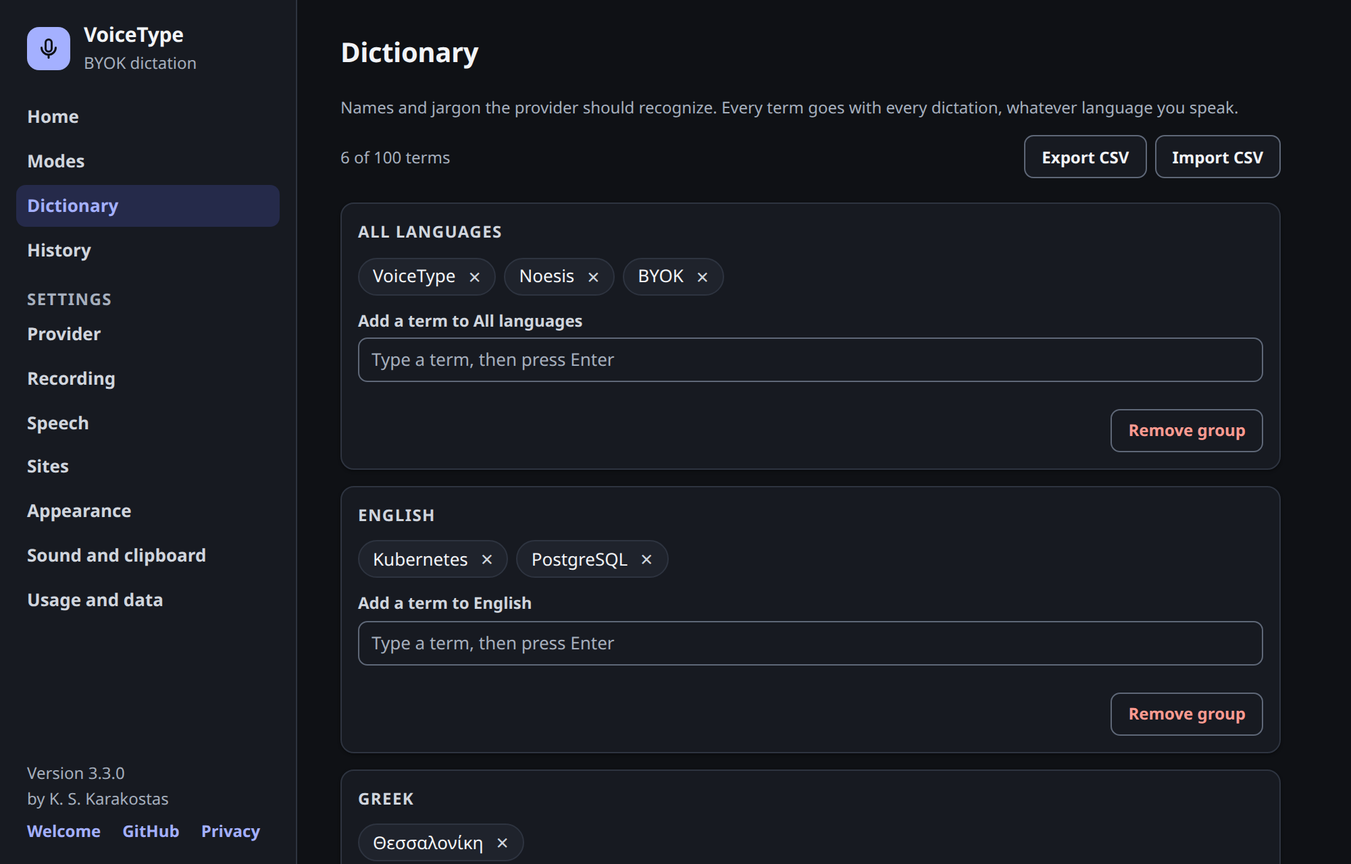
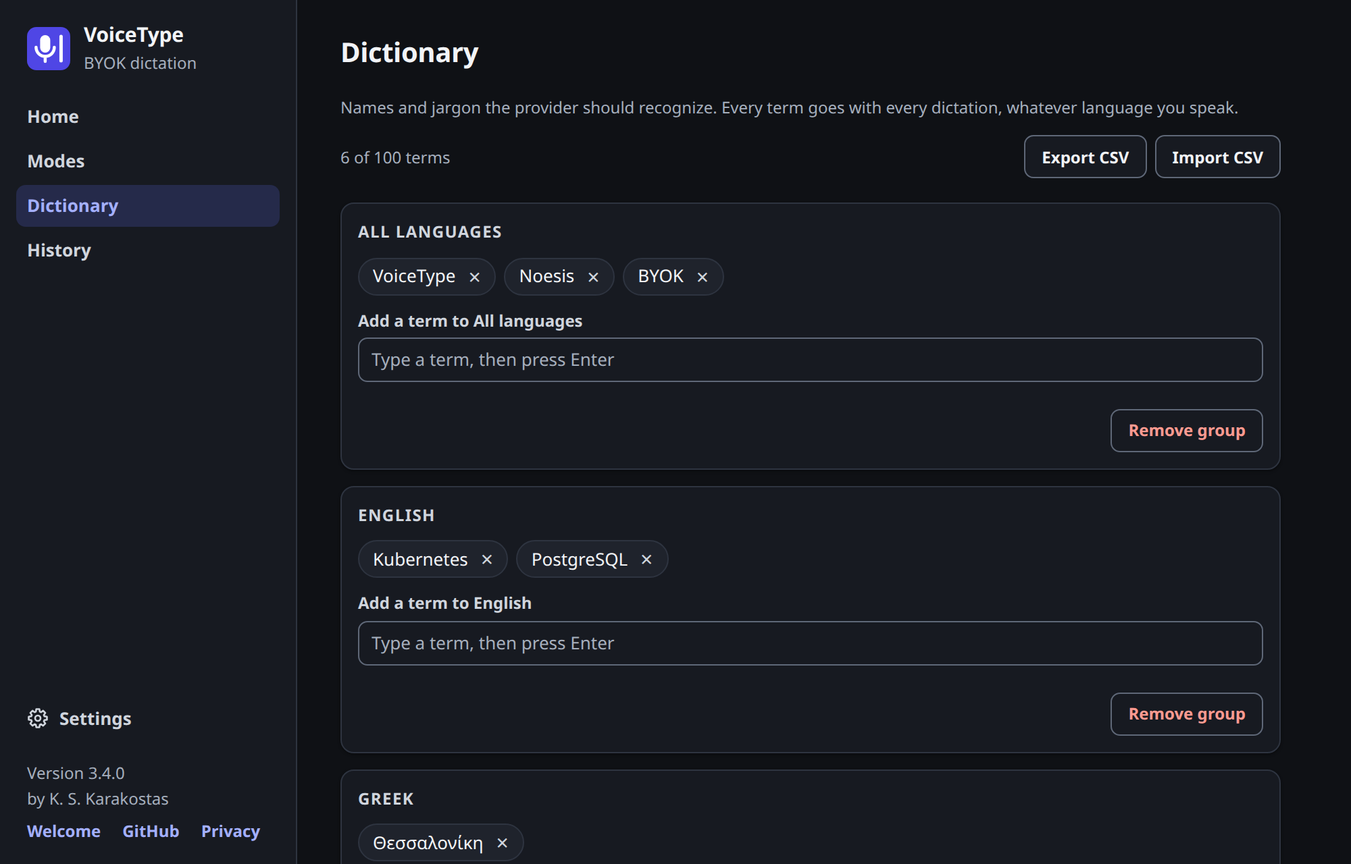
Release 3.4.0

diff --git a/test/screenshots/readme.spec.js b/test/screenshots/readme.spec.js
@@ -112,7 +112,8 @@ for (const colorScheme of ['light', 'dark']) {
       await page.reload();
 
       const popup = await context.newPage();
-      await popup.setViewportSize({ width: 320, height: 560 });
+      // Shorter than the panel, so the full-page shot ends where the panel does.
+      await popup.setViewportSize({ width: 320, height: 300 });
       await popup.goto(`chrome-extension://${extensionId}/popup.html`);
       // From behind the demo page, as the quick panel reads the active tab.
       await page.bringToFront();
@@ -130,7 +131,9 @@ for (const colorScheme of ['light', 'dark']) {
         // A route change focuses the heading, and its ring would be in the shot.
         await settings.evaluate(() => document.activeElement?.blur());
         await settings.waitForTimeout(500);
-        await settings.screenshot({ path: `${dir}/${name}.png` });
+        // A part is one card of a longer page, so its shot is that card and nothing of its neighbours.
+        const shot = route.startsWith('settings/') ? settings.locator(`section[data-part="${route}"]`) : settings;
+        await shot.screenshot({ path: `${dir}/${name}.png` });
       }
     } finally {
       await close();

diff --git a/test/unit/manifest.test.js b/test/unit/manifest.test.js
@@ -75,7 +75,7 @@ describe('content script', () => {
   });
 });
 
-describe('release 3.3.0', () => {
+describe('release 3.4.0', () => {
   // Reads files itself so this block works whatever the imports at the top of the file are.
   async function readRoot(name) {
     const fs = await import('node:fs');
@@ -87,7 +87,7 @@ describe('release 3.3.0', () => {
     const { version } = JSON.parse(await readRoot('manifest.json'));
     const pkg = JSON.parse(await readRoot('package.json'));
     const lock = JSON.parse(await readRoot('package-lock.json'));
-    expect(version).toBe('3.3.0');
+    expect(version).toBe('3.4.0');
     expect(pkg.version).toBe(version);
     expect(lock.version).toBe(version);
     expect(lock.packages[''].version).toBe(version);

diff --git a/docs/superpowers/plans/2026-11-06-v3.4-smoke.md b/docs/superpowers/plans/2026-11-06-v3.4-smoke.md
@@ -6,6 +6,8 @@ The Run column says who has it: **H** a harness ran it (result in the row), **M*
 
 Order (Task 6 of `docs/superpowers/plans/2026-11-06-v3.4.md`): Atlas hands you the M rows and stops until each has a result, sections in order. There is no gate section; the spec names none.
 
+On 2026-11-06 you asked Atlas to run these rows, or else to go on to Task 6. Atlas ran what a harness can and went on: a Result starting "Stand-in" is Atlas's and not your verdict, and those rows stay yours to check.
+
 Build, then reload VoiceType on `chrome://extensions` and reload any open page:
 
 ```bash
@@ -24,10 +26,10 @@ node test/fixtures/serve.mjs
 
 | # | Run | How | Expected | Result |
 |---|-----|-----|----------|--------|
-| 1.1 | M | Chrome with a light toolbar. Look at the pinned VoiceType icon among the other icons. Note your display scale (100%, 125%, 200%). | An indigo rounded square with a white microphone and a white text cursor. You tell it apart from its neighbours at a glance. | |
-| 1.2 | M | The same on a dark toolbar. | The same. The tile stands out from the toolbar; no halo at its corners. | |
-| 1.3 | M | The 16 px mark judged by eye, on either toolbar. It has no microphone stand: it is a capsule and a bar. | It reads as a microphone and a text cursor, not only as a pill and a line. Yours to judge. If it is weak, say so: this size leaves the stand out, so the capsule could be made taller. | |
-| 1.4 | M | In a tab. Press Open settings in the popup and look at that tab. Then open `chrome://extensions` and look at VoiceType's card. | The tab shows the extension's icon today (you reported it, 2026-11-06): the new mark there, both shapes readable and the drawing centred in its tile, is a pass; a generic icon is a fail. The card shows the new mark too. | |
+| 1.1 | M | Chrome with a light toolbar. Look at the pinned VoiceType icon among the other icons. Note your display scale (100%, 125%, 200%). | An indigo rounded square with a white microphone and a white text cursor. You tell it apart from its neighbours at a glance.  Stand-in by Atlas, not your verdict: `icons/icon16.png` and `icon32.png` laid on Chrome's light toolbar colour and viewed enlarged: the tile stands out. A real toolbar was not seen: headless Chromium draws none. |
+| 1.2 | M | The same on a dark toolbar. | The same. The tile stands out from the toolbar; no halo at its corners.  Stand-in by Atlas, not your verdict: the same on two dark toolbar colours, no halo at the corners. A real toolbar was not seen. |
+| 1.3 | M | The 16 px mark judged by eye, on either toolbar. It has no microphone stand: it is a capsule and a bar. | It reads as a microphone and a text cursor, not only as a pill and a line. Yours to judge. If it is weak, say so: this size leaves the stand out, so the capsule could be made taller.  Stand-in by Atlas, not your verdict: enlarged, the 16 px mark reads as a capsule and a bar, not clearly a microphone; the 32 px mark, which a 200% display uses, reads well. Open: yours to judge. |
+| 1.4 | M | In a tab. Press Open settings in the popup and look at that tab. Then open `chrome://extensions` and look at VoiceType's card. | The tab shows the extension's icon today (you reported it, 2026-11-06): the new mark there, both shapes readable and the drawing centred in its tile, is a pass; a generic icon is a fail. The card shows the new mark too.  Stand-in by Atlas, not your verdict: `chrome://extensions` shows the new mark on VoiceType's card, with Chrome's own orange badge for an unpacked extension on its corner. The tab icon was not seen. |
 | 1.5 | H | `manifest.json` lists 16, 32, 48 and 128 in `icons` and in `action.default_icon`; each file is a PNG of that exact size; `logo.png` is a PNG of 360 by 360. | All of it. | pass, the `icons` group of `manifest.test.js` (7 tests; 8 with row 1.6), `3232406` |
 | 1.6 | H | `build.mjs` copies every icon path the manifest names. `npm run build` leaves four PNGs in `dist/icons/`. | All four copied. | pass, `manifest.test.js`, `b87d6eb`; shown failing with the `icons/icon32.png` line removed from `build.mjs`, then restored |
 | 1.7 | H | The popup's and the sidebar's `.brand-mark` hold the same shapes as `icons/icon.svg`, the white parts in `translate(2.4 0)`. | Equal after whitespace; a missing copy fails. | pass, `icon-markup.test.js`, 5 tests, `b87d6eb`; shown failing with `translate(2.0 0)` in `options.html`, then restored |
@@ -40,21 +42,21 @@ Open the settings from the popup (Open settings): it lands on Home. The sidebar 
 
 | # | Run | How | Expected | Result |
 |---|-----|-----|----------|--------|
-| 2.1 | M | The page by feel. Press Settings with the mouse, then widen and narrow the window. | The sidebar names no part. The address is `#settings`, Settings is marked, and no ring shows on the page heading (measured in Chromium: the focus is on it, `:focus-visible` false). One column below a window about 1160 px wide, two up to about 1600, three above (measured 1158 and 1602 with no scrollbar; a visible scrollbar adds its width). On a 1920 px wide window the cards end about 870 px down, so the page needs no scroll when the page area is taller than that. The sidebar's mark is the new icon. Your verdict on the feel. | |
-| 2.2 | M | Scroll to the bottom of the page, then press Settings. | The page goes back to its top. The address stays `#settings`. | |
-| 2.3 | M | In the address bar change the end to `#settings/sites` and press Enter, then reload the tab (F5). | The page opens with the Sites heading in view. Nothing has the focus, so no ring (measured in Chromium: the focus is on the page body). | |
-| 2.4 | M | Keyboard. Tab to Settings in the sidebar and press Enter, then Tab on through the page. | A ring on the Settings heading after Enter (measured in Chromium: solid 2 px). Then the page's order: down the first column, then the second. In Recording: Minimum length, Maximum length, Silence auto-stop, Hotkey, Edit hotkey. Every control shows a focus ring. | |
-| 2.5 | M | Add API key. In the popup choose the provider you have no key for: the header changes to Add API key. Press it. Keep a settings tab open and sit on Home first: a press while it is at `#settings/provider` changes nothing (V69's accepted shortcut), and with no settings tab open the press opens a fresh one, which moves no focus (row 2.3). Then set the provider back (popup, or Settings, Provider). n/a if you have a key for both. | The open settings tab is used, with no second tab, and lands on Provider with its heading focused and in view. | |
-| 2.6 | M | Welcome's link. In the sidebar footer press Welcome, then Provider in the Your key card. | The Settings page, with the Provider heading focused and Settings marked. | |
+| 2.1 | M | The page by feel. Press Settings with the mouse, then widen and narrow the window. | The sidebar names no part. The address is `#settings`, Settings is marked, and no ring shows on the page heading (measured in Chromium: the focus is on it, `:focus-visible` false). One column below a window about 1160 px wide, two up to about 1600, three above (measured 1158 and 1602 with no scrollbar; a visible scrollbar adds its width). On a 1920 px wide window the cards end about 870 px down, so the page needs no scroll when the page area is taller than that. The sidebar's mark is the new icon. Your verdict on the feel.  Stand-in by Atlas, not your verdict: on Chromium 153 the sidebar names no part, `#settings` holds, one Settings mark, no ring after a mouse press; columns switch at 1158 and 1602 with no scrollbar; the cards end 868 px down at 1920. The feel stays open. |
+| 2.2 | M | Scroll to the bottom of the page, then press Settings. | The page goes back to its top. The address stays `#settings`.  Stand-in by Atlas, not your verdict: pass by `settings.spec.js`, "the sidebar has one Settings entry": scrolled down, a press returns to `scrollY` 0. |
+| 2.3 | M | In the address bar change the end to `#settings/sites` and press Enter, then reload the tab (F5). | The page opens with the Sites heading in view. Nothing has the focus, so no ring (measured in Chromium: the focus is on the page body).  Stand-in by Atlas, not your verdict: pass on Chromium 153: `#settings/sites`, active element BODY, heading wholly in view after the reload. |
+| 2.4 | M | Keyboard. Tab to Settings in the sidebar and press Enter, then Tab on through the page. | A ring on the Settings heading after Enter (measured in Chromium: solid 2 px). Then the page's order: down the first column, then the second. In Recording: Minimum length, Maximum length, Silence auto-stop, Hotkey, Edit hotkey. Every control shows a focus ring.  Stand-in by Atlas, not your verdict: pass in light and dark on Chromium 153: ring solid 2 px on the Settings heading after Enter; 35 Tab stops in page order, Recording's five as listed; each stop draws a ring on itself or on its choice card. |
+| 2.5 | M | Add API key. In the popup choose the provider you have no key for: the header changes to Add API key. Press it. Keep a settings tab open and sit on Home first: a press while it is at `#settings/provider` changes nothing (V69's accepted shortcut), and with no settings tab open the press opens a fresh one, which moves no focus (row 2.3). Then set the provider back (popup, or Settings, Provider). n/a if you have a key for both. | The open settings tab is used, with no second tab, and lands on Provider with its heading focused and in view.  Stand-in by Atlas, not your verdict: pass by `settings.spec.js`, with an unkeyed provider: from Home the open tab is reused, and in "Add API key in the popup lands on Provider" the heading is focused and in view. The press was made in a popup opened as a tab. |
+| 2.6 | M | Welcome's link. In the sidebar footer press Welcome, then Provider in the Your key card. | The Settings page, with the Provider heading focused and Settings marked.  Stand-in by Atlas, not your verdict: pass on Chromium 153: `#settings/provider`, `h-provider` focused, Settings marked. |
 | 2.7 | H | `parseRoute` for each of the seven old hashes and `#settings`, and `pageOf`. | Each old hash is returned as it was; `#settings` stays itself; all eight share one page. | pass, `routes.test.js`, in 2689 of 2689 unit tests, tree after `438633b`, 2026-11-06 |
 | 2.8 | H | `showRoute` shows one Settings section, scrolls the part's heading into view and focuses it on a hash change; a press on the Settings entry on `#settings` scrolls up and focuses the `h1`; a deep hash scrolls once after the first render with no focus move, and a failed load on one scrolls nothing; `aria-current` stays on Settings for every part; part ids and every `aria-labelledby` and `aria-describedby` still resolve. | As V69. | pass, `shell.test.js`, in 2689 of 2689 unit tests, tree after `438633b`, 2026-11-06 |
 | 2.9 | H | Each of the seven old hashes opened on a 500 px high window. | The part's heading is in view, near the top except the last part, and no focus moved on load. | pass, `settings.spec.js`, in 297 of 297, Playwright's Chromium 153, tree after `438633b`, 2026-11-06 |
 | 2.10 | H | The one Settings entry from Home, and again when scrolled down; each old hash in turn in an open page; a hand scroll; a 400 px high window on Usage and data. | One entry; heading focused, hash moved, one `aria-current` on Settings, nothing reloaded; a hand scroll moves neither hash nor mark; the last heading focuses and shows. | pass, `settings.spec.js`, in 297 of 297, Playwright's Chromium 153, tree after `438633b`, 2026-11-06 |
 | 2.11 | H | Add API key in the popup; a key typed, then a press on Home. | Lands on Provider, heading focused and in view. The typed key is saved and shows masked when you come back (the field never shows a saved key). | pass, `settings.spec.js`, in 297 of 297, Playwright's Chromium 153, tree after `438633b`, 2026-11-06 |
 | 2.12 | H | Every part at 380 px, with a long site rule host; forced colours. | No sideways scroll at any part; a card's edge stays drawn in forced colours. | pass, `settings.spec.js`, in 297 of 297, Playwright's Chromium 153, tree after `438633b`, 2026-11-06 |
-| 2.13 | H | The spec files that open `#settings/…` and the full e2e. | No old hash changed; all pass. | pass, 297 of 297, Playwright's Chromium 153, tree after `438633b`, 2026-11-06 (11.5 min). Not rerun on Chrome 140 after this change |
+| 2.13 | H | The spec files that open `#settings/…` and the full e2e. | No old hash changed; all pass. | pass, 297 of 297, Playwright's Chromium 153, tree after `438633b`, 2026-11-06 (11.5 min). Again in the release gates: 297 of 297 on Chromium 153 and on Chrome 140 |
 | 2.14 | H | A settings load that fails, on `#settings/provider` in a window 500 px high: the page's `getSettings` message is made to reject. | The Settings page shows, the banner "Could not load settings. Reload this page." is visible and wholly in the viewport, and the page stays at its top (`scrollY` 0). Before the fix the hash's scroll took the banner out of sight. | pass, `settings.spec.js`, "a failed load on a deep hash leaves the banner in view, and the page at its top", Playwright's Chromium 153 and Chrome 140, the commit "Close the final review's items"; shown failing first on the old code (banner viewport ratio 0), passing with the fix |
-| 2.15 | H | Settings at 1000, 1440, 1920 and 2560 px wide, with one site rule; Modes at 1920. | 1, 2, 3 and 3 columns; the cards end within 2100, 1340, 900 and 850 px (measured 2071, 1309, 866 and 814; the page was 2602 px tall at every width); no overlap, no sideways scroll; Modes stays 760 px. | pass, `settings.spec.js`, in 297 of 297, Playwright's Chromium 153, tree after `438633b`, 2026-11-06; shown failing at 1440 px with `column-count: 1` |
+| 2.15 | H | Settings at 1000, 1440, 1920 and 2560 px wide, with one site rule; Modes at 1920. | 1, 2, 3 and 3 columns; the cards end within 2100, 1340, 900 and 850 px (measured 2073, 1311, 868 and 816; the page was 2602 px tall at every width); no overlap, no sideways scroll; Modes stays 760 px. | pass, `settings.spec.js`, in 297 of 297, Playwright's Chromium 153, tree after `438633b`, 2026-11-06; shown failing at 1440 px with `column-count: 1` |
 
 ## 3. The popup (V72 to V77)
 
@@ -62,10 +64,10 @@ Open the popup from the toolbar. Rows 3.1 to 3.4 need 2 or more dictations with 
 
 | # | Run | How | Expected | Result |
 |---|-----|-----|----------|--------|
-| 3.1 | M | The popup on a real site. Open any https site in a tab and click the icon. | From the top: the new mark, VoiceType, Ready; Provider and Mode side by side with their labels above; one site line (the site's name, Hide pill, a mode list reading Active); Today with Sessions, Words, Spoken and Cost; Copy last with an arrow; Open settings. No tagline. Compact and pleasing: your verdict. Sessions, Spoken and Cost equal Sessions, Audio and Cost in the Today row under Settings, Usage and data. | |
-| 3.2 | M | The popup on a page VoiceType cannot run on. Open `chrome://extensions` and click the icon. | The site line reads "Not available on this page", on one line. The rest as 3.1. | |
-| 3.3 | M | The arrow and a real copy. Open the popup on `fields.html`. | The arrow stands at the right of Copy last, sharing one border, and no dictated word is on screen. Press the arrow: your newest dictations appear, newest first, one line each, a long one cut with an ellipsis. Press the second row: "Copied to clipboard." shows and the popup and the list stay open. Click into `#ta` and paste: all the words of the long, older dictation, not only the part its row showed. Open the popup again: the list is closed. | |
-| 3.4 | M | The popup with the banner shown and the list open. On a real site click the icon, right-click inside the popup and choose Inspect. In its Console run `document.getElementById('banner-text').textContent = 'Could not load settings. Close and reopen the popup.'; document.getElementById('banner').hidden = false`. If Chrome's console refuses the paste, type `allow pasting` and Enter first. Then press the arrow. | The banner stands under the header and overlaps nothing; the list's rows are one line each; the popup shows no vertical scrollbar. If one shows, write how many rows it hides. | |
+| 3.1 | M | The popup on a real site. Open any https site in a tab and click the icon. | From the top: the new mark, VoiceType, Ready; Provider and Mode side by side with their labels above; one site line (the site's name, Hide pill, a mode list reading Active); Today with Sessions, Words, Spoken and Cost; Copy last with an arrow; Open settings. No tagline. Compact and pleasing: your verdict. Sessions, Spoken and Cost equal Sessions, Audio and Cost in the Today row under Settings, Usage and data.  Stand-in by Atlas, not your verdict: the real toolbar popup, opened by `chrome.action.openPopup()` over `fields.html` (localhost, not https), light and dark. 337 px high, 320 wide, order as listed, no tagline. Today read 1, 2, 0:02, <$0.01; the Today row read 1, 0:02, <$0.01. "Pleasing" stays open. |
+| 3.2 | M | The popup on a page VoiceType cannot run on. Open `chrome://extensions` and click the icon. | The site line reads "Not available on this page", on one line. The rest as 3.1.  Stand-in by Atlas, not your verdict: the real toolbar popup over `chrome://extensions`: "Not available on this page" on one line, 328 px high, no scrollbar with scrollbars on (0.7 px of rounding). |
+| 3.3 | M | The arrow and a real copy. Open the popup on `fields.html`. | The arrow stands at the right of Copy last, sharing one border, and no dictated word is on screen. Press the arrow: your newest dictations appear, newest first, one line each, a long one cut with an ellipsis. Press the second row: "Copied to clipboard." shows and the popup and the list stay open. Click into `#ta` and paste: all the words of the long, older dictation, not only the part its row showed. Open the popup again: the list is closed.  Stand-in by Atlas, not your verdict: the real toolbar popup, provider stubbed. Closed: no dictated word in the page. Open: five rows, 30 px each, the long one 120 characters; popup 501 px. The second row showed "Copied to clipboard.", the list stayed open, the clipboard and a Ctrl+V in `#ta` held all 239 characters. Reopened: closed. |
+| 3.4 | M | The popup with the banner shown and the list open. On a real site click the icon, right-click inside the popup and choose Inspect. In its Console run `document.getElementById('banner-text').textContent = 'Could not load settings. Close and reopen the popup.'; document.getElementById('banner').hidden = false`. If Chrome's console refuses the paste, type `allow pasting` and Enter first. Then press the arrow. | The banner stands under the header and overlaps nothing; the list's rows are one line each; the popup shows no vertical scrollbar. If one shows, write how many rows it hides.  Stand-in by Atlas, not your verdict: the real toolbar popup, 5 rows. The banner stands from 56 to 113 px under a header ending at 46, rows one line. On a 1920 by 1400 screen the popup is 559 px with no scrollbar. On headless Chromium's default 800 by 600 screen it stops at 510 and hides 49 px; the popup is not at fault there, but a very short screen would show it. |
 | 3.5 | H | At 320 px with a site and a key, and a 61 character site name. | Height under 460 px; no sideways scroll; the name on one line, cut by an ellipsis, the whole name in `title`, Hide pill and the mode list level with it. | pass, `sites.spec.js`, "the popup is under 460 px tall at 320 px…", Playwright's Chromium, `0378ce3`; height 335.9 px, scrollWidth 320 of 320; shown failing on each of three CSS mutations. Again in the 44 of 44 at `df46eb9` |
 | 3.6 | H | Forced colours: every visible `select` and `button`, with and without a key; with 2 dictations, the arrow and the open list. | Each keeps a drawn border; the open list keeps its border and the hairline between rows. | pass, `sites.spec.js`, "in forced colours the popup keeps the edge of every control", `0378ce3` and `250a201`; shown failing with `border: 0` on `.btn` and `select`. The checkbox's own edge is not readable from computed style: not verified |
 | 3.7 | H | The popup's order and content: no tagline, visible labels, the Today caption, a hidden "This site" heading; the provider `select` saves only the provider; Today shows four numbers, zeros when there is no bucket, `m:ss` and `h:mm:ss`; the site line keeps its whole name in `title` and reads Active. | As V72 to V75. | pass, `popup.test.js` and `format.test.js`, Task 3 full unit run 2654 of 2654, `0378ce3`; the fix round, `77e029d` |
@@ -125,8 +127,8 @@ Provider stubbed. Browser items ran headless on Playwright's Chromium. The insta
 | Final review fixes, `npm test` at the commit "Close the final review's items" | 2686/2686 (67 files, the dash test included) | |
 | The full `npm run test:e2e` on the final tree, the commit "Close the final review's items" (Playwright 1.63.0, `workers: 1`) | 294/294 (11.7 min) | 294/294 (11.6 min) |
 | `npm run build` and `npm run lint:ext` on the final tree | build exit 0; lint exit 0 with the two known warnings, `offscreen` and `data_collection_permissions` | not applicable |
-| `npm audit --omit=dev` | not run in this lane yet (Task 6) | not applicable |
+| The full release gates on the tree of the commit "Release 3.4.0": `npm run build`, `npm test`, `npm run test:e2e`, `npm run lint:ext`, `npm audit --omit=dev` | build exit 0; 2689/2689; 297/297 (12.3 min); lint exit 0 with the two known warnings; 0 vulnerabilities | 297/297 on 140.0.7339.207 (13.8 min); the others not applicable |
 
 The focus claims in rows 2.1, 2.3 and 2.4 come from a throwaway Playwright check, not kept as a test, run on Playwright's Chromium on the tree of 2026-11-06 after `438633b`: after a mouse press on Settings the page heading is the active element with `:focus-visible` false; after Enter on it, true with a solid 2 px outline; after a reload the active element is the page body.
 
-Not covered: every M row, open until you answer; a real toolbar popup (the e2e opens `popup.html` as a tab 320 px wide), so the popup's 600 px cap is reported and not measured, and the banner with the list open has no harness row (row 3.4); the popup's height against the 3.3 popup's (the spec asks for it; the test holds 460 px, the plan's number, and the 3.3 popup was not measured); the 16 px mark in a real toolbar (rows 1.1 to 1.3); `screenshots/` still shows the old mark and the old popup, and the README caption under the Quick Panel shot still reads "today's cost" for a panel that now shows four numbers; Task 6 retakes the images; Windows and macOS.
+Not covered: your own verdict on every M row; the e2e opens `popup.html` as a tab 320 px wide (the stand-ins for rows 3.1 to 3.4 used the real toolbar popup, in a throwaway check not kept as a test, and the popup's 600 px cap was not reached); the popup's height against the 3.3 popup's (the spec asks for it; the test holds 460 px, the plan's number, and the 3.3 popup was not measured); the 16 px mark in a real toolbar (rows 1.1 to 1.3); Windows and macOS. Task 6 retook `screenshots/`: the Sites and Appearance shots now show that part's card alone, and the Quick Panel caption reads "today's numbers".

diff --git a/docs/superpowers/plans/2026-11-06-v3.4.md b/docs/superpowers/plans/2026-11-06-v3.4.md
@@ -255,14 +255,14 @@ it('a clear empties an open list', () => {
 **Files:**
 - Modify: `CHANGELOG.md`, `README.md`, `manifest.json`, `package.json`, `package-lock.json`, `test/unit/manifest.test.js`, the smoke list, the changed images under `screenshots/`
 
-- [ ] **Step 1: Hand K. S. Karakostas the M rows and stop until he has answered**
+- [x] **Step 1: Hand K. S. Karakostas the M rows and stop until he has answered** On 2026-11-06 he asked Atlas to run them or else go on: a harness ran the rows it can, and the Result cells say so.
 
-- [ ] **Step 2: Bump to 3.4.0 as `a0d94a3` did: the two lines of the lock file only, the README badge, the two release lines of `manifest.test.js`, and a CHANGELOG section**
+- [x] **Step 2: Bump to 3.4.0 as `a0d94a3` did: the two lines of the lock file only, the README badge, the two release lines of `manifest.test.js`, and a CHANGELOG section**
 
-- [ ] **Step 3: Run `npm run screenshots`, and stage by name only the images that differ. Also check README's Quick Panel caption (line 103, "today's cost") against the new panel, and the framing of the Sites and Appearance shots, which now show the whole Settings page scrolled to that part**
+- [x] **Step 3: Run `npm run screenshots`, and stage by name only the images that differ. Also check README's Quick Panel caption (line 103, "today's cost") against the new panel, and the framing of the Sites and Appearance shots, which now show the whole Settings page scrolled to that part**
 
-- [ ] **Step 4: Run every gate: build, `npm test`, `npm run test:e2e` on Chromium 153, again with `VT_CHROME_BIN=.superpowers/chrome140/chrome-linux64/chrome`, `npm run lint:ext`, `npm audit --omit=dev`. Expected: all exit 0**
+- [x] **Step 4: Run every gate: build, `npm test`, `npm run test:e2e` on Chromium 153, again with `VT_CHROME_BIN=.superpowers/chrome140/chrome-linux64/chrome`, `npm run lint:ext`, `npm audit --omit=dev`. Expected: all exit 0**
 
-- [ ] **Step 5: Commit** `git commit -m "Release 3.4.0"`
+- [x] **Step 5: Commit** `git commit -m "Release 3.4.0"`
 
 - [ ] **Step 6: Give K. S. Karakostas the merge, tag and push commands in one block, then read the run and the Release**

diff --git a/CHANGELOG.md b/CHANGELOG.md
@@ -1,5 +1,30 @@
 # Changelog
 
+## 3.4.0 (2026-11-06)
+
+### Added
+- The last 5 dictations in the popup. An arrow beside Copy last opens the list, and a press on a row copies that whole dictation. The list is closed each time the popup opens, and no dictated text is in the popup until you press the arrow. A row shows at most 120 characters of the first line.
+- Today in the popup shows four numbers: Sessions, Words, Spoken and Cost.
+
+### Changed
+- Settings is one sidebar entry, with a cog, and one page. Its seven parts are cards in one to three columns that follow the window, in place of seven entries and a single narrow column. Links and bookmarks such as `options.html#settings/sites` still land on their part, and `#settings` alone opens the top of the page.
+- A new icon, a white microphone and text cursor on an indigo square, in the toolbar, on `chrome://extensions` and on the pages. A 32 px size joins 16, 48 and 128.
+- A shorter popup: Provider and Mode side by side, one line for this site, and no tagline.
+
+### Measured
+- The Settings page was 2602 px tall at every window width. Its cards now end 1311 px down at 1440 wide and 868 px down at 1920 wide.
+- The real toolbar popup is 337 px high, and 501 px with the list open.
+
+### Internal
+- No new permission, no new package, no stored field. `scripts/render-icons.mjs` renders the icons from `icons/icon.svg` and `icons/icon16.svg` through Playwright's Chromium.
+
+### Not tested
+- By K. S. Karakostas: the manual list was run by a harness instead, with the provider stubbed. The feel of the Settings page and the popup, and whether the 16 px mark reads as a microphone, are unjudged.
+- The icon in a real toolbar and in a tab: headless Chromium draws neither.
+- A real dictation with a real key and microphone on this build.
+- A screen reader on the new Settings page and popup.
+- Windows and macOS.
+
 ## 3.3.0 (2026-11-06)
 
 ### Added

diff --git a/README.md b/README.md
@@ -14,7 +14,7 @@
 </p>
 
 <p align="center">
-  <img src="https://img.shields.io/badge/version-3.3.0-purple" alt="Version">
+  <img src="https://img.shields.io/badge/version-3.4.0-purple" alt="Version">
   <img src="https://img.shields.io/badge/Chrome-140%2B-blue" alt="Chrome 140 or newer">
   <img src="https://img.shields.io/badge/license-MIT-green" alt="License">
 </p>
@@ -100,7 +100,7 @@ Keys stay in your browser's local extension storage, readable only by VoiceType'
   <img src="screenshots/light/quick-panel.png" alt="Quick panel" width="280">
 </picture><br>
 <strong>Quick Panel</strong><br>
-<em>Provider, active mode, this site's rule and today's cost</em>
+<em>Provider, active mode, this site's rule and today's numbers</em>
 </td>
 <td align="center" width="50%">
 <picture>
